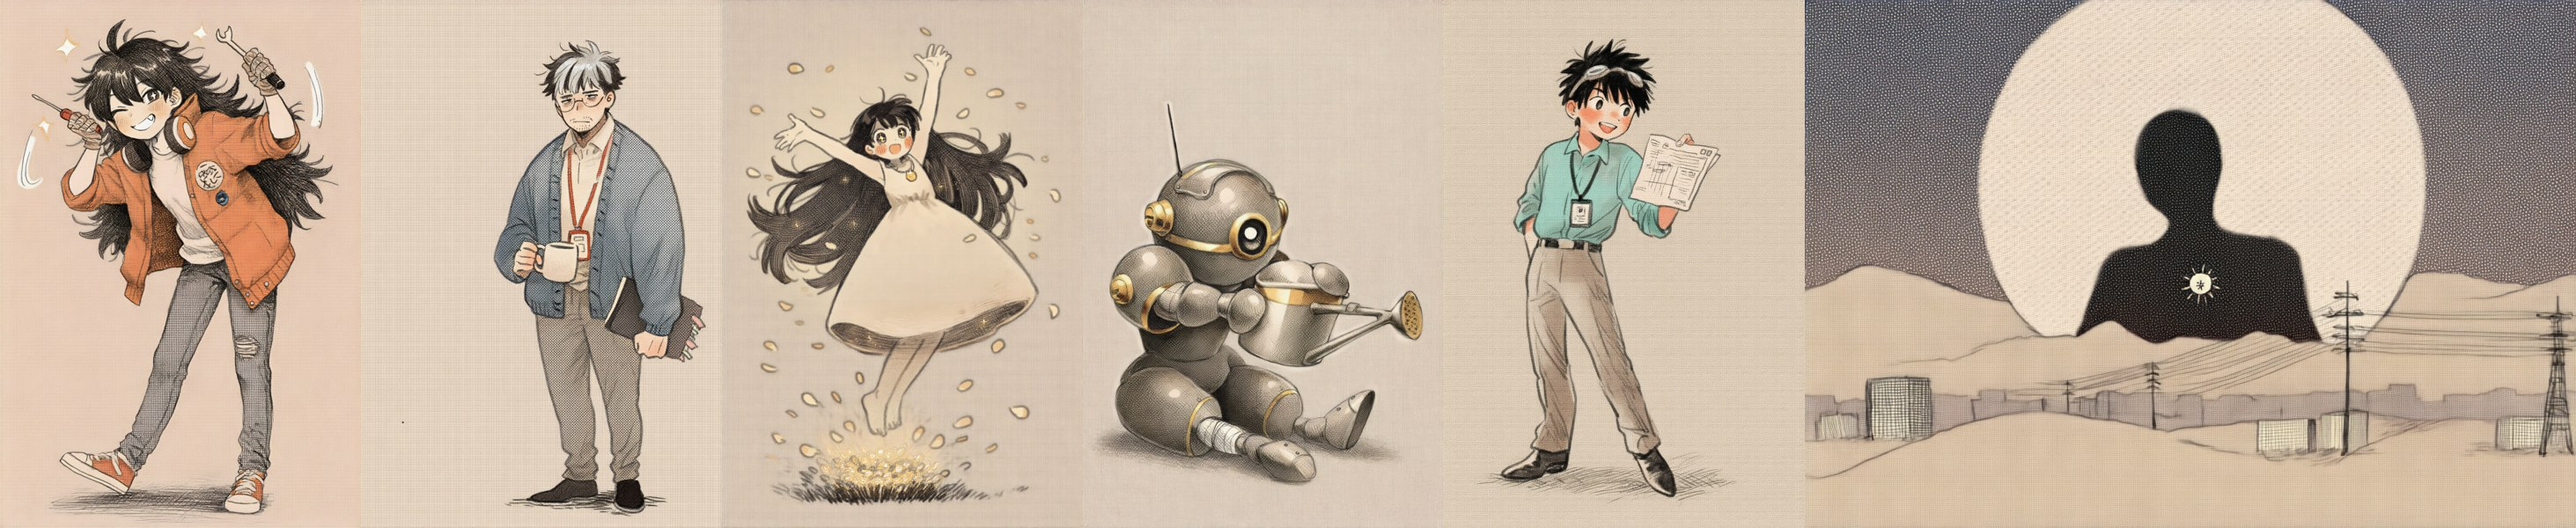
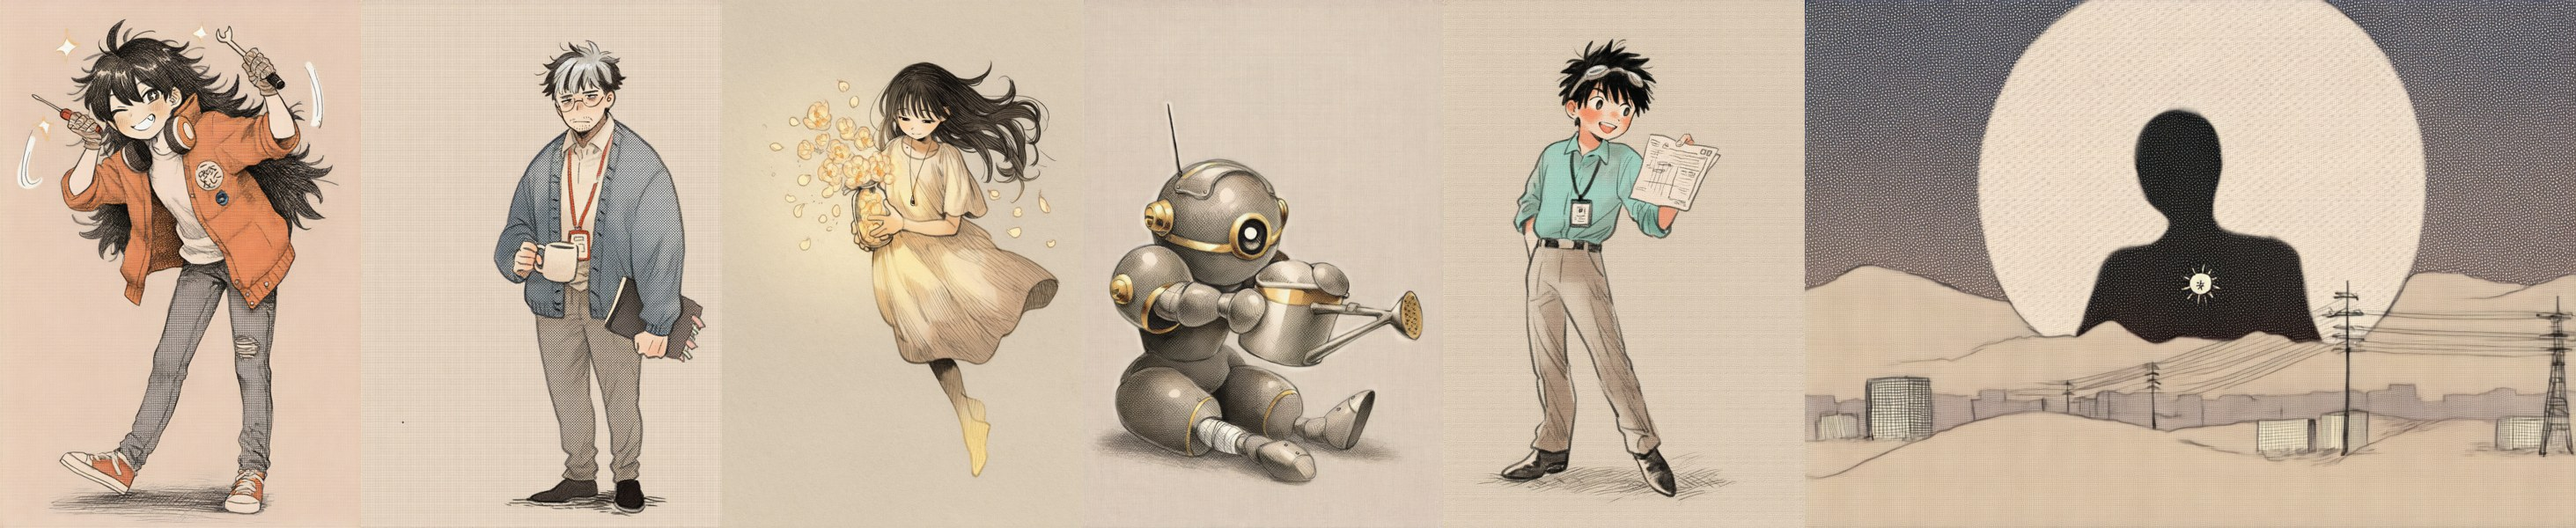
Revert Alice to the quiet version and add a blonde variant
Claude-Session: https://claude.ai/code/session_01AsD7CcnWD46sZwwufpHp7b

Changed region(s): [[0.2799, 0.09, 0.4354, 0.96], [0.2799, 0.12, 0.311, 0.15]]

diff --git a/illustration/tools/characters_v4.py b/illustration/tools/characters_v4.py
@@ -25,9 +25,11 @@ CHARS = {
               "bandaged hands, holding screwdriver, patch, badge, jeans, sneakers, motion lines, full body",
     "father": "1boy, solo, mature male, middle-aged, grey hair, streaked hair, short hair, glasses, facial hair, stubble, tired, serious, "
               "1.5::blue cardigan::, collared shirt, lanyard, id card, holding notebook, holding mug, milk, full body, standing",
-    "alice":  "1girl, solo, ghost, transparent, glowing, 1.4::yellow theme::, golden light, long hair, floating hair, "
-              ":d, open mouth, blush, happy, sparkling eyes, looking at viewer, outstretched arms, arms up, "
-              "white dress, pendant, vase, petals, sparkle, floating, full body",
+    "alice":  "1girl, solo, ghost, transparent, glowing, 1.4::yellow theme::, golden light, long hair, floating hair, light smile, "
+              "half-closed eyes, white dress, pendant, vase, petals, flower, floating, full body",
+    # 金发试验版：在上一版基础上只加金发
+    "alice_blonde": "1girl, solo, ghost, transparent, glowing, 1.4::yellow theme::, golden light, 1.4::blonde hair::, long hair, "
+                    "floating hair, light smile, half-closed eyes, white dress, pendant, vase, petals, flower, floating, full body",
     "hk7":    "no humans, solo, 1.4::humanoid robot::, old, damaged, round head, one-eyed, camera, antenna, "
               "1.4::gold trim::, yellow stripes, mechanical joints, bandaged leg, sitting, holding watering can, full body",
     "ethan":  "1boy, solo, young man, short hair, messy hair, black hair, smile, open mouth, "

diff --git a/illustration/novelai-prompts.md b/illustration/novelai-prompts.md
@@ -195,9 +195,9 @@ NovelAI 的图像模型是按 Danbooru 标签训练的，所以 v4 把 v3 的英
 |---|---|---|
 | 西尔维亚 | v4 元气版 | 1380833547（备选 `sylvia_alt.png`：眨眼咧嘴笑版，seed 101916536；原安静版移至 `characters/v4/`，seed 3620746427） |
 | 父亲 | v4 | 3719933818 |
-| 爱丽丝 | v4 元气版 | 4208501454（原安静版移至 `characters/v4/`，seed 3234635755） |
+| 爱丽丝 | v4（元气版试过后改回） | 3234635755（金发试验版 `alice_blonde.png`，提示词 `alice_blonde`，seed 3915623739） |
 | HK-7 | v4 | 2177387971 |
 | 伊桑 | v4 | 3293825572 |
 | 子午线 | v3（见第八节） | 1202646189 |
 
-**元气少女版（西尔维亚、爱丽丝）**：去掉 `tired`、`determined`、`half-closed eyes`，改用标签库中的 `:d`（咧嘴笑）、`;d`（单眼咧嘴笑）、`grin`、`fang`（虎牙）、`ahoge`（呆毛）、`sparkling eyes`（星星眼）、`bright pupils`、`blush`、`v`（胜利手势）、`leaning forward`、`motion lines`；爱丽丝用 `arms up`、`outstretched arms`、`sparkle`。
+**元气少女版（西尔维亚、爱丽丝）**：去掉 `tired`、`determined`、`half-closed eyes`，改用标签库中的 `:d`（咧嘴笑）、`;d`（单眼咧嘴笑）、`grin`、`fang`（虎牙）、`ahoge`（呆毛）、`sparkling eyes`（星星眼）、`bright pupils`、`blush`、`v`（胜利手势）、`leaning forward`、`motion lines`。爱丽丝也试过元气版（`arms up`、`outstretched arms`、`sparkle`），但“由光构成”的感觉变弱，已改回安静版。
